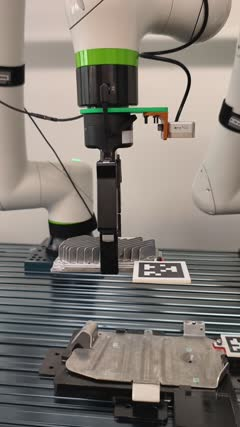
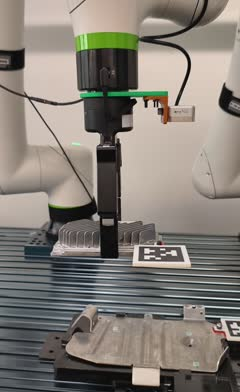
Crop disturbance GIF to exact alignment dimensions without padding

diff --git a/index.html b/index.html
@@ -477,7 +477,7 @@
     }
     .research-demo-portrait { grid-column: 2; grid-row: 1 / span 2; }
     .research-demo-portrait img {
-      aspect-ratio: 270 / 442;
+      aspect-ratio: 240 / 393;
       height: auto;
       object-fit: cover;
     }
@@ -1078,14 +1078,14 @@
         <figure class="research-demo research-demo-portrait">
           <picture>
             <source media="(prefers-reduced-motion: reduce)" srcset="images/research/alignment.jpg" />
-            <img src="images/research/alignment.gif" alt="Robotic alignment demonstration" width="270" height="442" loading="lazy" decoding="async" />
+            <img src="images/research/alignment.gif" alt="Robotic alignment demonstration" width="240" height="393" loading="lazy" decoding="async" />
           </picture>
           <figcaption>Alignment</figcaption>
         </figure>
         <figure class="research-demo research-demo-portrait research-demo-disturbance">
           <picture>
             <source media="(prefers-reduced-motion: reduce)" srcset="images/research/external-disturbance.jpg" />
-            <img src="images/research/external-disturbance.gif" alt="Robotic manipulation under external disturbance" width="240" height="427" loading="lazy" decoding="async" />
+            <img src="images/research/external-disturbance.gif?v=2" alt="Robotic manipulation under external disturbance" width="240" height="393" loading="lazy" decoding="async" />
           </picture>
           <figcaption>External Disturbance</figcaption>
         </figure>
